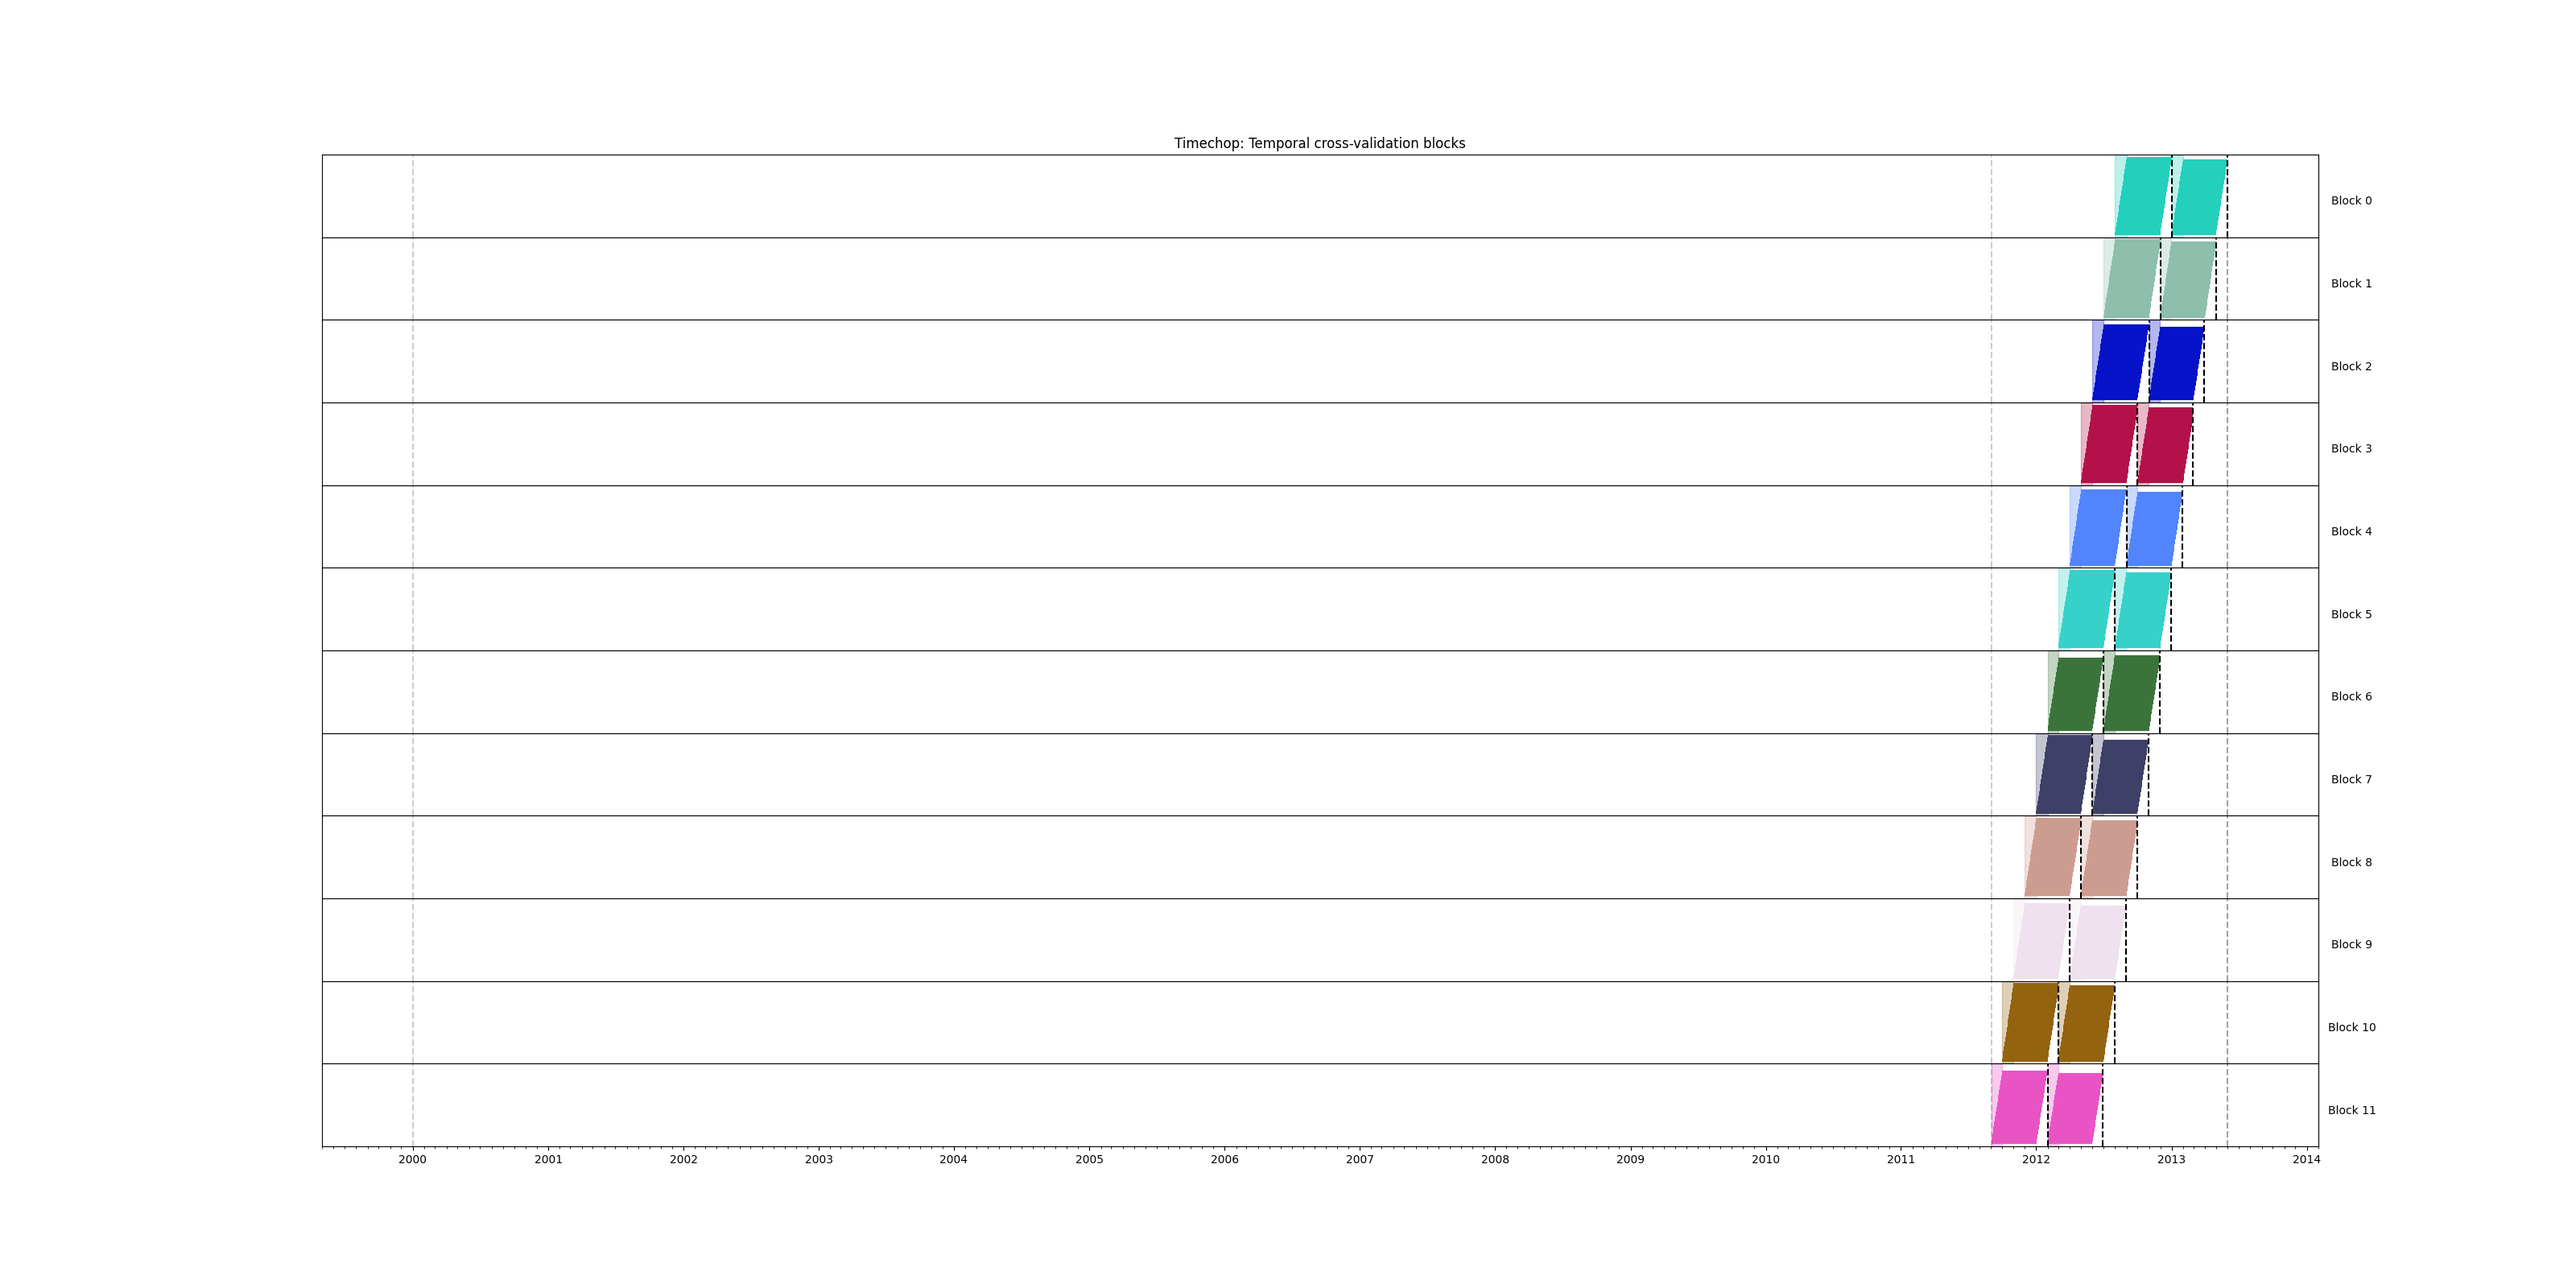
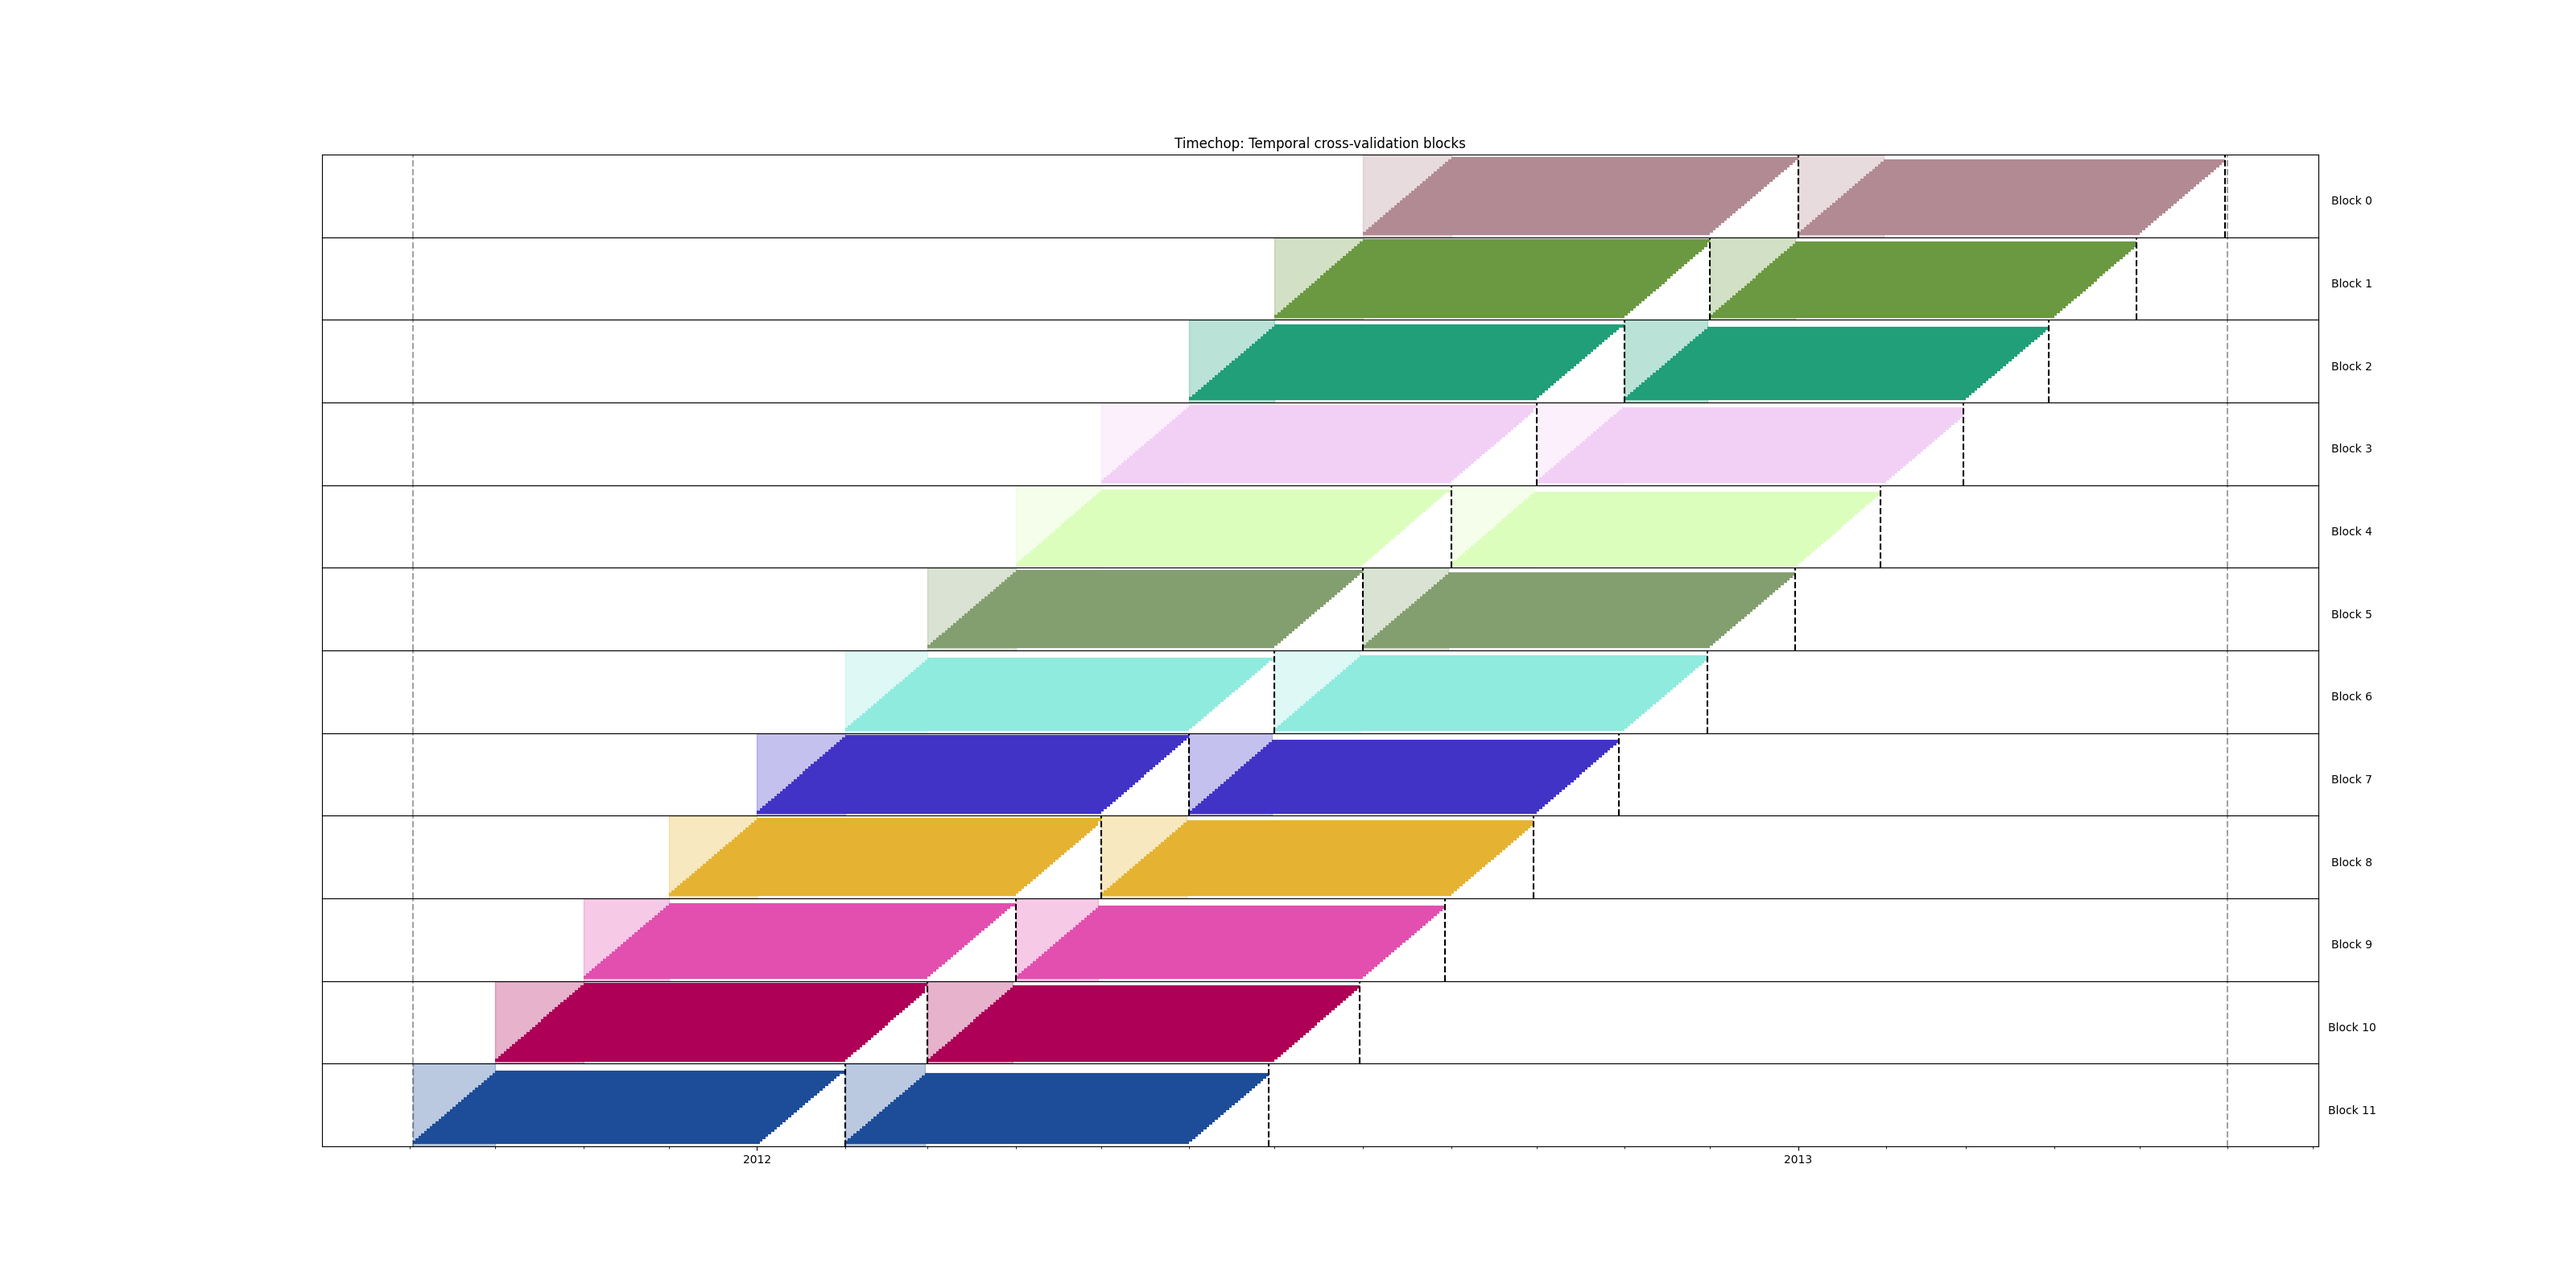
Tweak to timechop plot: truncated displayed feature calculation time

Changed region(s): [[0.1562, 0.0938, 0.875, 0.9062]]

diff --git a/main.py b/main.py
@@ -40,6 +40,12 @@ with open('donors-choose-config.yaml', 'r') as fin:
 # generating temporal config plot
 chopper = Timechop(**config['temporal_config'])
 
+# We aren't interested in seeing the entire feature_start_time represented
+# in our timechop plot. That would hide the interesting information. So we
+# set it to equal label_start_time for the plot.
+
+chopper.feature_start_time = chopper.label_start_time 
+
 visualize_chops(chopper, save_target = 'triage_output/timechop.png')
 
 # creating experiment object
